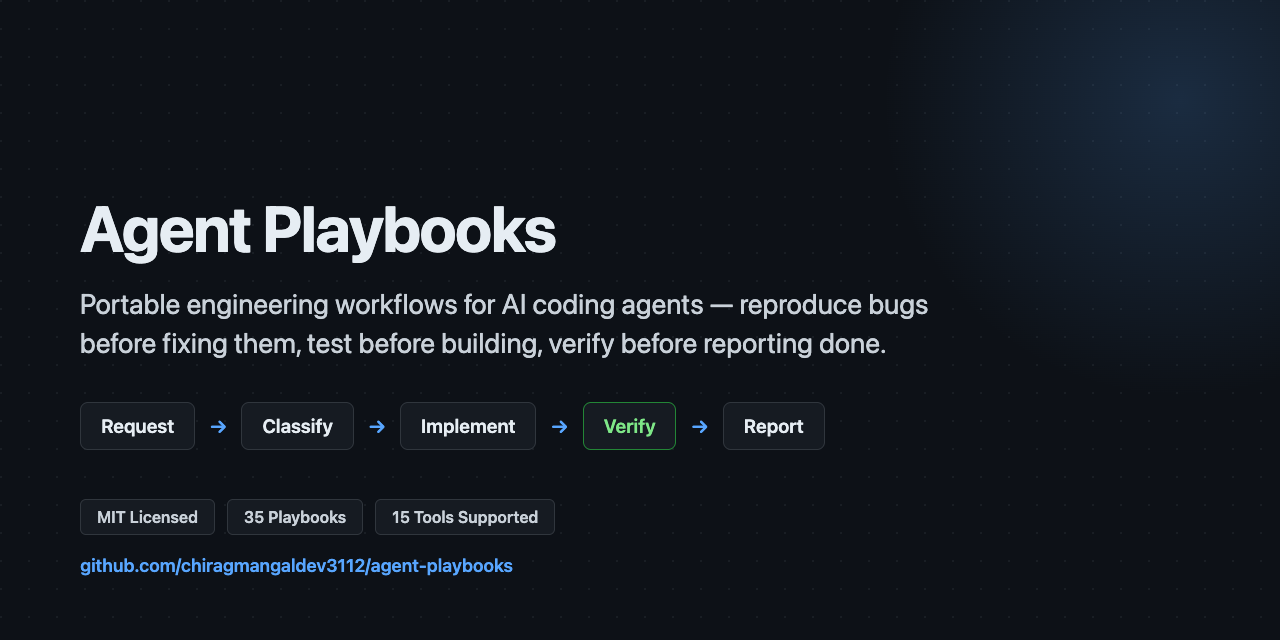
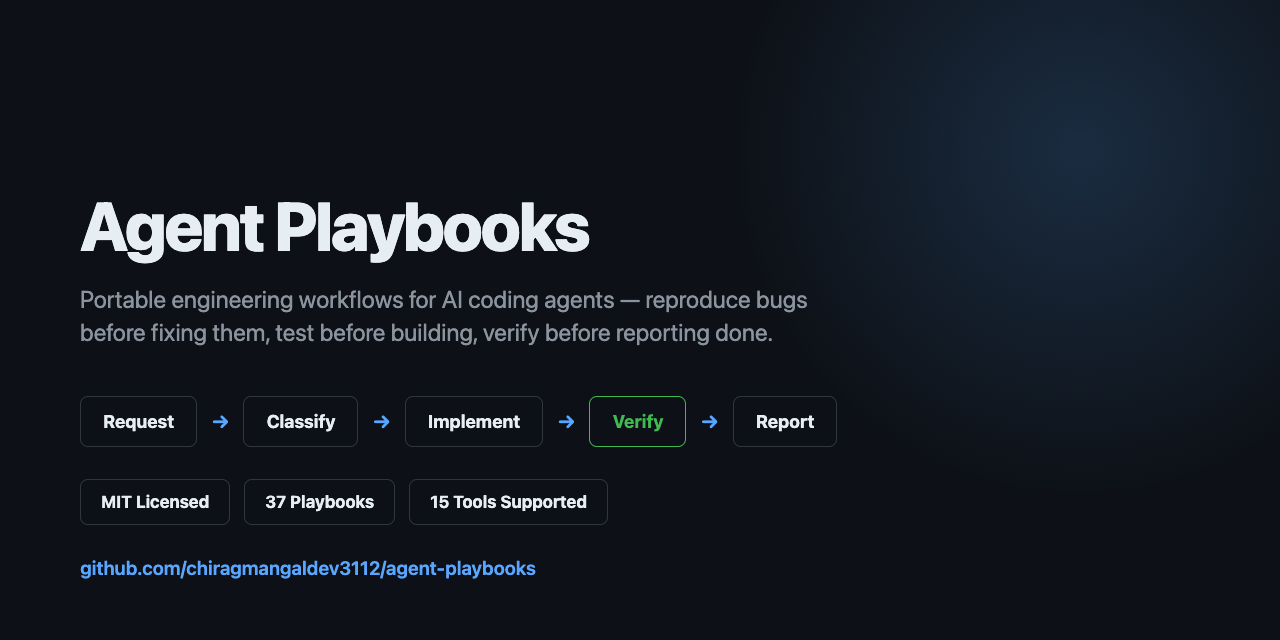
Add config-protection.md to catalog, fix stale playbook counts (1.24.0)
New safety/config-protection.md playbook added to the catalog table,
FLOWS.md, and EXAMPLES.md. Regenerated docs/social-preview.png (stuck
at "35 Playbooks" since before the 36th playbook shipped) and updated
every general "36 playbooks" count to 37 across README.md,
docs/index.html, and docs/llms.txt -- left the demo-video-specific
mentions at 36 since the video itself wasn't re-recorded and genuinely
only covers 36.

diff --git a/docs/index.html b/docs/index.html
@@ -5,12 +5,12 @@
 <meta name="viewport" content="width=device-width, initial-scale=1">
 <meta name="google-site-verification" content="nt9vtEzPQ9s2uKeMrE_KEHdB61vgrIBrZYika3s2Aqc" />
 <title>agent-playbooks — portable AGENTS.md instructions for AI coding agents</title>
-<meta name="description" content="One portable rulebook for AI coding agents — Claude Code, Cursor, Antigravity, Gemini CLI, Devin CLI, GitHub Copilot, and more. 36 playbooks for bug fixes, feature development, code review, and testing, built on the AGENTS.md standard. Free, open source, install in one command.">
+<meta name="description" content="One portable rulebook for AI coding agents — Claude Code, Cursor, Antigravity, Gemini CLI, Devin CLI, GitHub Copilot, and more. 37 playbooks for bug fixes, feature development, code review, and testing, built on the AGENTS.md standard. Free, open source, install in one command.">
 <link rel="canonical" href="https://chiragmangaldev3112.github.io/agent-playbooks/">
 
 <meta property="og:type" content="website">
 <meta property="og:title" content="agent-playbooks — portable AGENTS.md instructions for AI coding agents">
-<meta property="og:description" content="One portable rulebook for AI coding agents across every major tool — 36 playbooks for bug fixes, features, review, and testing. Free, open source.">
+<meta property="og:description" content="One portable rulebook for AI coding agents across every major tool — 37 playbooks for bug fixes, features, review, and testing. Free, open source.">
 <meta property="og:url" content="https://chiragmangaldev3112.github.io/agent-playbooks/">
 <meta property="og:site_name" content="agent-playbooks">
 <meta property="og:image" content="https://chiragmangaldev3112.github.io/agent-playbooks/social-preview.png">
@@ -19,7 +19,7 @@
 
 <meta name="twitter:card" content="summary_large_image">
 <meta name="twitter:title" content="agent-playbooks — portable AGENTS.md instructions for AI coding agents">
-<meta name="twitter:description" content="One portable rulebook for AI coding agents across every major tool — 36 playbooks for bug fixes, features, review, and testing.">
+<meta name="twitter:description" content="One portable rulebook for AI coding agents across every major tool — 37 playbooks for bug fixes, features, review, and testing.">
 <meta name="twitter:image" content="https://chiragmangaldev3112.github.io/agent-playbooks/social-preview.png">
 
 <script type="application/ld+json">
@@ -27,7 +27,7 @@
   "@context": "https://schema.org",
   "@type": "SoftwareSourceCode",
   "name": "agent-playbooks",
-  "description": "Portable, tool-agnostic instructions for AI coding agents, built on the AGENTS.md standard. 36 playbooks covering bug fixes, feature development, code review, testing, security, and autonomous operation, usable with Claude Code, Cursor, Antigravity, Gemini CLI, Devin CLI, Factory Droid, Grok Build, Kimi Code, OpenCode, Pi, Hermes Agent, and GitHub Copilot.",
+  "description": "Portable, tool-agnostic instructions for AI coding agents, built on the AGENTS.md standard. 37 playbooks covering bug fixes, feature development, code review, testing, security, and autonomous operation, usable with Claude Code, Cursor, Antigravity, Gemini CLI, Devin CLI, Factory Droid, Grok Build, Kimi Code, OpenCode, Pi, Hermes Agent, and GitHub Copilot.",
   "codeRepository": "https://github.com/chiragmangaldev3112/agent-playbooks",
   "programmingLanguage": "Markdown",
   "license": "https://github.com/chiragmangaldev3112/agent-playbooks/blob/main/LICENSE",
@@ -50,7 +50,7 @@
     {
       "@type": "Question",
       "name": "What is agent-playbooks?",
-      "acceptedAnswer": { "@type": "Answer", "text": "agent-playbooks is a portable, tool-agnostic instruction set for AI coding agents, built on the AGENTS.md standard. It provides 36 playbooks covering bug fixes, feature development, code review, security review, testing, and autonomous operation, so you write the rules once instead of configuring every AI coding tool separately." }
+      "acceptedAnswer": { "@type": "Answer", "text": "agent-playbooks is a portable, tool-agnostic instruction set for AI coding agents, built on the AGENTS.md standard. It provides 37 playbooks covering bug fixes, feature development, code review, security review, testing, and autonomous operation, so you write the rules once instead of configuring every AI coding tool separately." }
     },
     {
       "@type": "Question",
@@ -214,7 +214,7 @@
     <p class="eyebrow">Portable engineering workflows for AI coding agents</p>
     <h1>Agent Playbooks</h1>
     <p class="sub">One process for every task — implement, then verify independently.</p>
-    <p class="desc">36 playbooks that give Claude Code, Cursor, Codex, GitHub Copilot,
+    <p class="desc">37 playbooks that give Claude Code, Cursor, Codex, GitHub Copilot,
     Antigravity, and 10 other AI coding tools a shared engineering process —
     reproduce before fixing, test before building, verify independently
     before calling anything done. Built on the open
@@ -300,7 +300,7 @@ chmod +x install.sh<span class="c">   # read it first if you want -- that's the 
   </section>
 
   <section class="block">
-    <h2>36 playbooks, one engineering loop</h2>
+    <h2>37 playbooks, one engineering loop</h2>
     <p class="lede">Grouped by kind of concern. Full detail, a flowchart per
     playbook, and a worked example for every one live in the
     <a href="https://github.com/chiragmangaldev3112/agent-playbooks#readme" style="text-decoration:underline">README</a>,
@@ -403,7 +403,7 @@ chmod +x install.sh<span class="c">   # read it first if you want -- that's the 
     <div class="faq-item">
       <h3>What is agent-playbooks?</h3>
       <p>A portable, tool-agnostic instruction set for AI coding agents, built on
-      the AGENTS.md standard. 36 playbooks covering bug fixes, feature
+      the AGENTS.md standard. 37 playbooks covering bug fixes, feature
       development, code review, security review, testing, and autonomous
       operation, so you write the rules once instead of configuring every AI
       coding tool separately.</p>

diff --git a/README.md b/README.md
@@ -11,7 +11,7 @@
   <a href="https://github.com/chiragmangaldev3112/agent-playbooks/issues"><img src="https://img.shields.io/github/issues/chiragmangaldev3112/agent-playbooks" alt="Issues"></a>
   <a href="https://github.com/chiragmangaldev3112/agent-playbooks/stargazers"><img src="https://img.shields.io/github/stars/chiragmangaldev3112/agent-playbooks?style=social" alt="Stars"></a>
   <br>
-  <img src="https://img.shields.io/badge/36_Playbooks-blueviolet" alt="36 Playbooks">
+  <img src="https://img.shields.io/badge/37_Playbooks-blueviolet" alt="37 Playbooks">
   <img src="https://img.shields.io/badge/Releases-Ed25519_Signed-success" alt="Ed25519 Signed Releases">
   <img src="https://img.shields.io/badge/Setup-No_Account_Needed-informational" alt="No Account Needed">
 </p>
@@ -112,7 +112,7 @@ Full catalog with every file: [🧰 Playbook Catalog](#playbook-catalog).
 | **Core** | reproduce-before-fix bug workflow, test-first feature development, ambiguity resolution |
 | **Quality** | code review, security review, architecture review, frontend/backend testing, cold-start exploratory QA |
 | **Change types** | refactoring, dependency upgrades, database migration, incident response, release |
-| **Safety** | enforced destructive-command block, enforced secret-commit block |
+| **Safety** | enforced destructive-command block, enforced secret-commit block, enforced lint/format config-protection |
 | **Autonomy** | standing-mission mode, reusable personas (Bug Hunter, Code Reviewer, ...) |
 | **Project & mapping** | repo onboarding, codebase/database mapping, third-party API integration |
 
@@ -347,7 +347,7 @@ own:
 | "Here's the spec/report" (PDF, Word doc, any format) | Extracts the text (and page images if it's scanned), reads a 600-page document the same way as a 6-page one via bounded chunks, re-verifies every finding, then routes each action item through the engineering loop if you want it acted on |
 | 🚫 Anything destructive (force-push, dropping a table) | Hard-blocked, not just discouraged |
 
-That's the whole interface. You don't need to read all 36 files before
+That's the whole interface. You don't need to read all 37 files before
 getting value from any one of them — the router finds the right one, and
 each file is self-contained if you ever want to read the one that just
 fired.
@@ -423,6 +423,7 @@ you'd say, here's what happens" example for every single one, see
 |---|---|
 | `safety/safety-guardrail.md` | A real, enforced block on destructive shell commands |
 | `safety/secret-scan.md` | A real, enforced block on committing real secrets/credentials |
+| `safety/config-protection.md` | A real, enforced block on editing an existing linter/formatter config to make a failing check pass instead of fixing the code |
 | `safety/memory-hygiene.md` | Don't trust a remembered fact once its source code has changed |
 | `safety/sensitive-data.md` | Classify data before deciding how strictly to handle it |
 

diff --git a/CHANGELOG.md b/CHANGELOG.md
@@ -8,6 +8,45 @@ same content this repo publishes it from, kept here for browsing before
 you install); a fresh `install.sh` run always fetches the latest, and
 now prints the version it installed.
 
+## 1.24.0 — 2026-09-18
+Added `safety/config-protection.md` — a new, 37th playbook, plus
+`scripts/block-config-edit.sh` and `scripts/claude-code-config-protection-hook.sh`
+— a real, enforced block on editing an existing linter/formatter/style
+config file (ESLint, Prettier, Biome, Ruff, ShellCheck, Stylelint,
+markdownlint), while still allowing first-time creation of one. Targets a
+real failure mode: an agent facing a failing lint/format check weakening
+the config instead of fixing the flagged code, the same "real exit code,
+no LLM judgment" shape as `safety-guardrail.md`/`secret-scan.md`.
+
+Two-layer wiring, same reasoning as `secret-scan.md`: a git pre-commit
+hook (primary, tool-agnostic) plus a Claude Code `PreToolUse` hook
+(defense in depth). The two-layer split isn't cosmetic — checked directly
+against a real, current Cursor checkout (its actual `hooks.json` and hook
+event list) and confirmed it has no `beforeFileEdit`/`beforeWrite` event
+at all, only `afterFileEdit` (fires after the write already landed, so it
+can revert but never prevent one). That's why the git layer, not a
+per-tool pre-write hook, is the one every project gets regardless of
+which AI coding tool is in use.
+
+Both scripts were run for real, not just written: 8 direct cases against
+`block-config-edit.sh` (protected-vs-not, exists-vs-first-time-creation,
+a case-insensitive-filesystem match, a dangling symlink at a protected
+path, stdin input, a nested path, and confirming `pyproject.toml` is
+correctly never blocked), the Claude Code JSON shim against real-shaped
+`Write`/`Edit`/`MultiEdit` payloads (both the `jq` and `python3`-fallback
+paths), and the git pre-commit hook in a real scratch repo — a first-time
+`.eslintrc.js` commit succeeding, a modification to that same tracked
+file being genuinely rejected, and an ordinary source file continuing to
+commit normally afterward. `project/project-bootstrap.md` now wires this
+in alongside the existing two guardrails (renumbered as a new step 5).
+
+Also folds in the source of this addition: `docs/social-preview.png` was
+regenerated (it had been stuck at "35 Playbooks" since before the 36th
+playbook shipped) and every "36 playbooks" reference describing the
+current playbook count (not the still-36-playbook demo video, which
+wasn't re-recorded) was updated to 37 across `README.md`,
+`docs/index.html`, and `docs/llms.txt`.
+
 ## 1.23.0 — 2026-09-18
 `media/doc-review.md`/`scripts/extract-doc-text.sh` now handle
 `.xlsx`/`.xls` spreadsheets, via `markitdown`

diff --git a/EXAMPLES.md b/EXAMPLES.md
@@ -252,6 +252,17 @@ which tool is used, since it fires on the commit itself), then actually
 tests it — a fake-but-real-shaped secret gets a commit genuinely
 rejected, and an ordinary code change still commits normally afterward.
 
+### `safety/config-protection.md`
+**Scenario:** an agent facing a failing lint check tries to edit
+`.eslintrc.js` to turn the failing rule off, instead of fixing the code.
+**You say:** "Set up config-protection for this project."
+**What happens:** installs the git pre-commit hook (works regardless of
+which tool is used, same reasoning as secret-scan.md — most AI coding
+tools have no pre-write hook to block this with at all), then actually
+tests it — committing a fresh `.eslintrc.js` for the first time succeeds,
+modifying that same tracked file and recommitting is genuinely rejected,
+and an ordinary source-file change still commits normally afterward.
+
 ### `safety/memory-hygiene.md`
 **Scenario:** an agent recalls "this function handles retries" from an
 earlier session.

diff --git a/FLOWS.md b/FLOWS.md
@@ -459,6 +459,22 @@ flowchart TD
     C --> E[Hard block:\ncommit rejected or\nwrite refused]
 ```
 
+### `safety/config-protection.md`
+
+A real, enforced block on editing an existing linter/formatter config to
+make a failing check pass instead of fixing the code
+
+```mermaid
+flowchart TD
+    A[File about to be\nwritten, or staged for commit] --> B[block-config-edit.sh checks\nbasename against protected_files]
+    B -->|Not a protected name| D[Exit 0: proceeds normally]
+    B -->|Protected name| C{Already existed\nbefore this change?}
+    C -->|No -- first-time creation| D
+    C -->|Yes| E[Exit 2: blocked,\nreason on stderr]
+    E --> F1[Claude Code:\nhard block pre-write]
+    E --> F2[git pre-commit:\ncommit rejected]
+```
+
 ### `safety/memory-hygiene.md`
 
 Don't trust a remembered fact once its source code has changed
